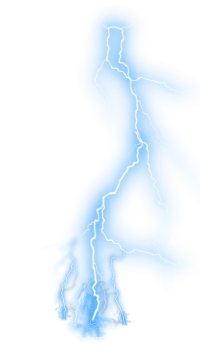
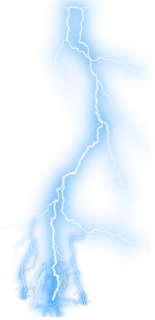
Added function for width and angle. Added images.

Changed region(s): [[0.1032, 0.0, 0.8, 1.0]]

diff --git a/client/app/js/main.js b/client/app/js/main.js
@@ -1,11 +1,29 @@
-document.addEventListener('click', function (e) {
-  var lightning = document.querySelector('.lightning'),
-    core = document.querySelector('.core'),
-    width = findWidth({x: e.pageX, y: e.pageY}, {x: core.getBoundingClientRect().x, y: core.getBoundingClientRect().y});
-
-  if (width > 110) {
-    lightning.style.width =  Math.round(width/2) + 'px';
-    animate(lightning, 150);
+var counter =0;
+document.addEventListener('mousemove', function (e) {
+  if (counter != 8) {
+    counter += 1;
+  }
+  else {
+    var toLeft, toTop,
+      lightning = document.querySelector('._' + getRandomInt(1,9)),
+      core = document.querySelector('.core'),
+      widthX = e.pageX - core.getBoundingClientRect().x,
+      widthY = e.pageY - core.getBoundingClientRect().y,
+      width = findWidth(widthX, widthY),
+      angle = findAngle(widthX, widthY);
+    angle = angle > 0 ? angle + 90 : angle - 270;
+    toTop = angle > 0 ? -width/4 : -width;
+    toLeft = angle > 90 && angle < 180 ? 0 :
+     angle > -360 && angle < -270 ? lightning.getBoundingClientRect().width/3 :
+     -lightning.getBoundingClientRect().width/2;
+    if (width > 110) {
+      lightning.style.height = Math.round(width * 1.3) + 'px';
+      lightning.style.left =  toLeft + 'px';
+      lightning.style.top = toTop + 'px';
+      lightning.style.transform = 'rotate(' + angle + 'deg)';
+      animate(lightning, 100);
+    }
+    counter = 0;
   }
 });
 
@@ -18,10 +36,15 @@ function animate (element, interval) {
   return element;
 }
 
-function findWidth (firstPoint, secondPoint) {
-  var result, widthX, widthY;
-  widthX = firstPoint.x - secondPoint.x;
-  widthY = firstPoint.y - secondPoint.y;
-  result = Math.pow(Math.pow(widthX, 2) + Math.pow(widthY, 2), 0.5);
-  return result;
+function findWidth (widthX, widthY) {
+  return Math.pow(Math.pow(widthX, 2) + Math.pow(widthY, 2), 0.5);
+}
+
+function findAngle(widthX, widthY) {
+  var angle = Math.atan2(widthY, widthX);
+  return  angle *= 180/Math.PI;
+}
+
+function getRandomInt(min, max) {
+  return Math.floor(Math.random() * (max - min)) + min;
 }

diff --git a/client/app/css/main.css b/client/app/css/main.css
@@ -1,24 +1,25 @@
 body {
     background-color: #2c3e50;
     color: #bdc3c7;
+    min-height: 600px;
+    display: flex;
+    overflow: hidden;
 }
 .center-bolt {
     display: flex;
-    position: relative;
     height: 200px;
     width: 200px;
     border-radius: 100%;
     background-color: #2980b9;
-    margin-left: 45%;
-    margin-top: 10%;
+    margin: auto
 }
 .core {
+    position:relative;
     margin: auto;
     width: 10px;
     height: 10px;
 }
 .lightning {
-    margin: auto;
     -webkit-user-select: none;  /* Chrome all / Safari all */
     -moz-user-select: none;     /* Firefox all */
     -ms-user-select: none;      /* IE 10+ */

diff --git a/client/app/view/index.html b/client/app/view/index.html
@@ -11,9 +11,15 @@
 
 
   <div class="center-bolt">
-    <img class="lightning hidden" src="img/2.png">
     <div class="core">
-
+      <img class="lightning _2 hidden" src="img/2.png">
+      <img class="lightning _1 hidden" src="img/1.png">
+      <img class="lightning _3 hidden" src="img/3.png">
+      <img class="lightning _4 hidden" src="img/4.png">
+      <img class="lightning _5 hidden" src="img/5.png">
+      <img class="lightning _6 hidden" src="img/6.png">
+      <img class="lightning _7 hidden" src="img/7.png">
+      <img class="lightning _8 hidden" src="img/8.png">
     </div>
   </div>
 </template>
